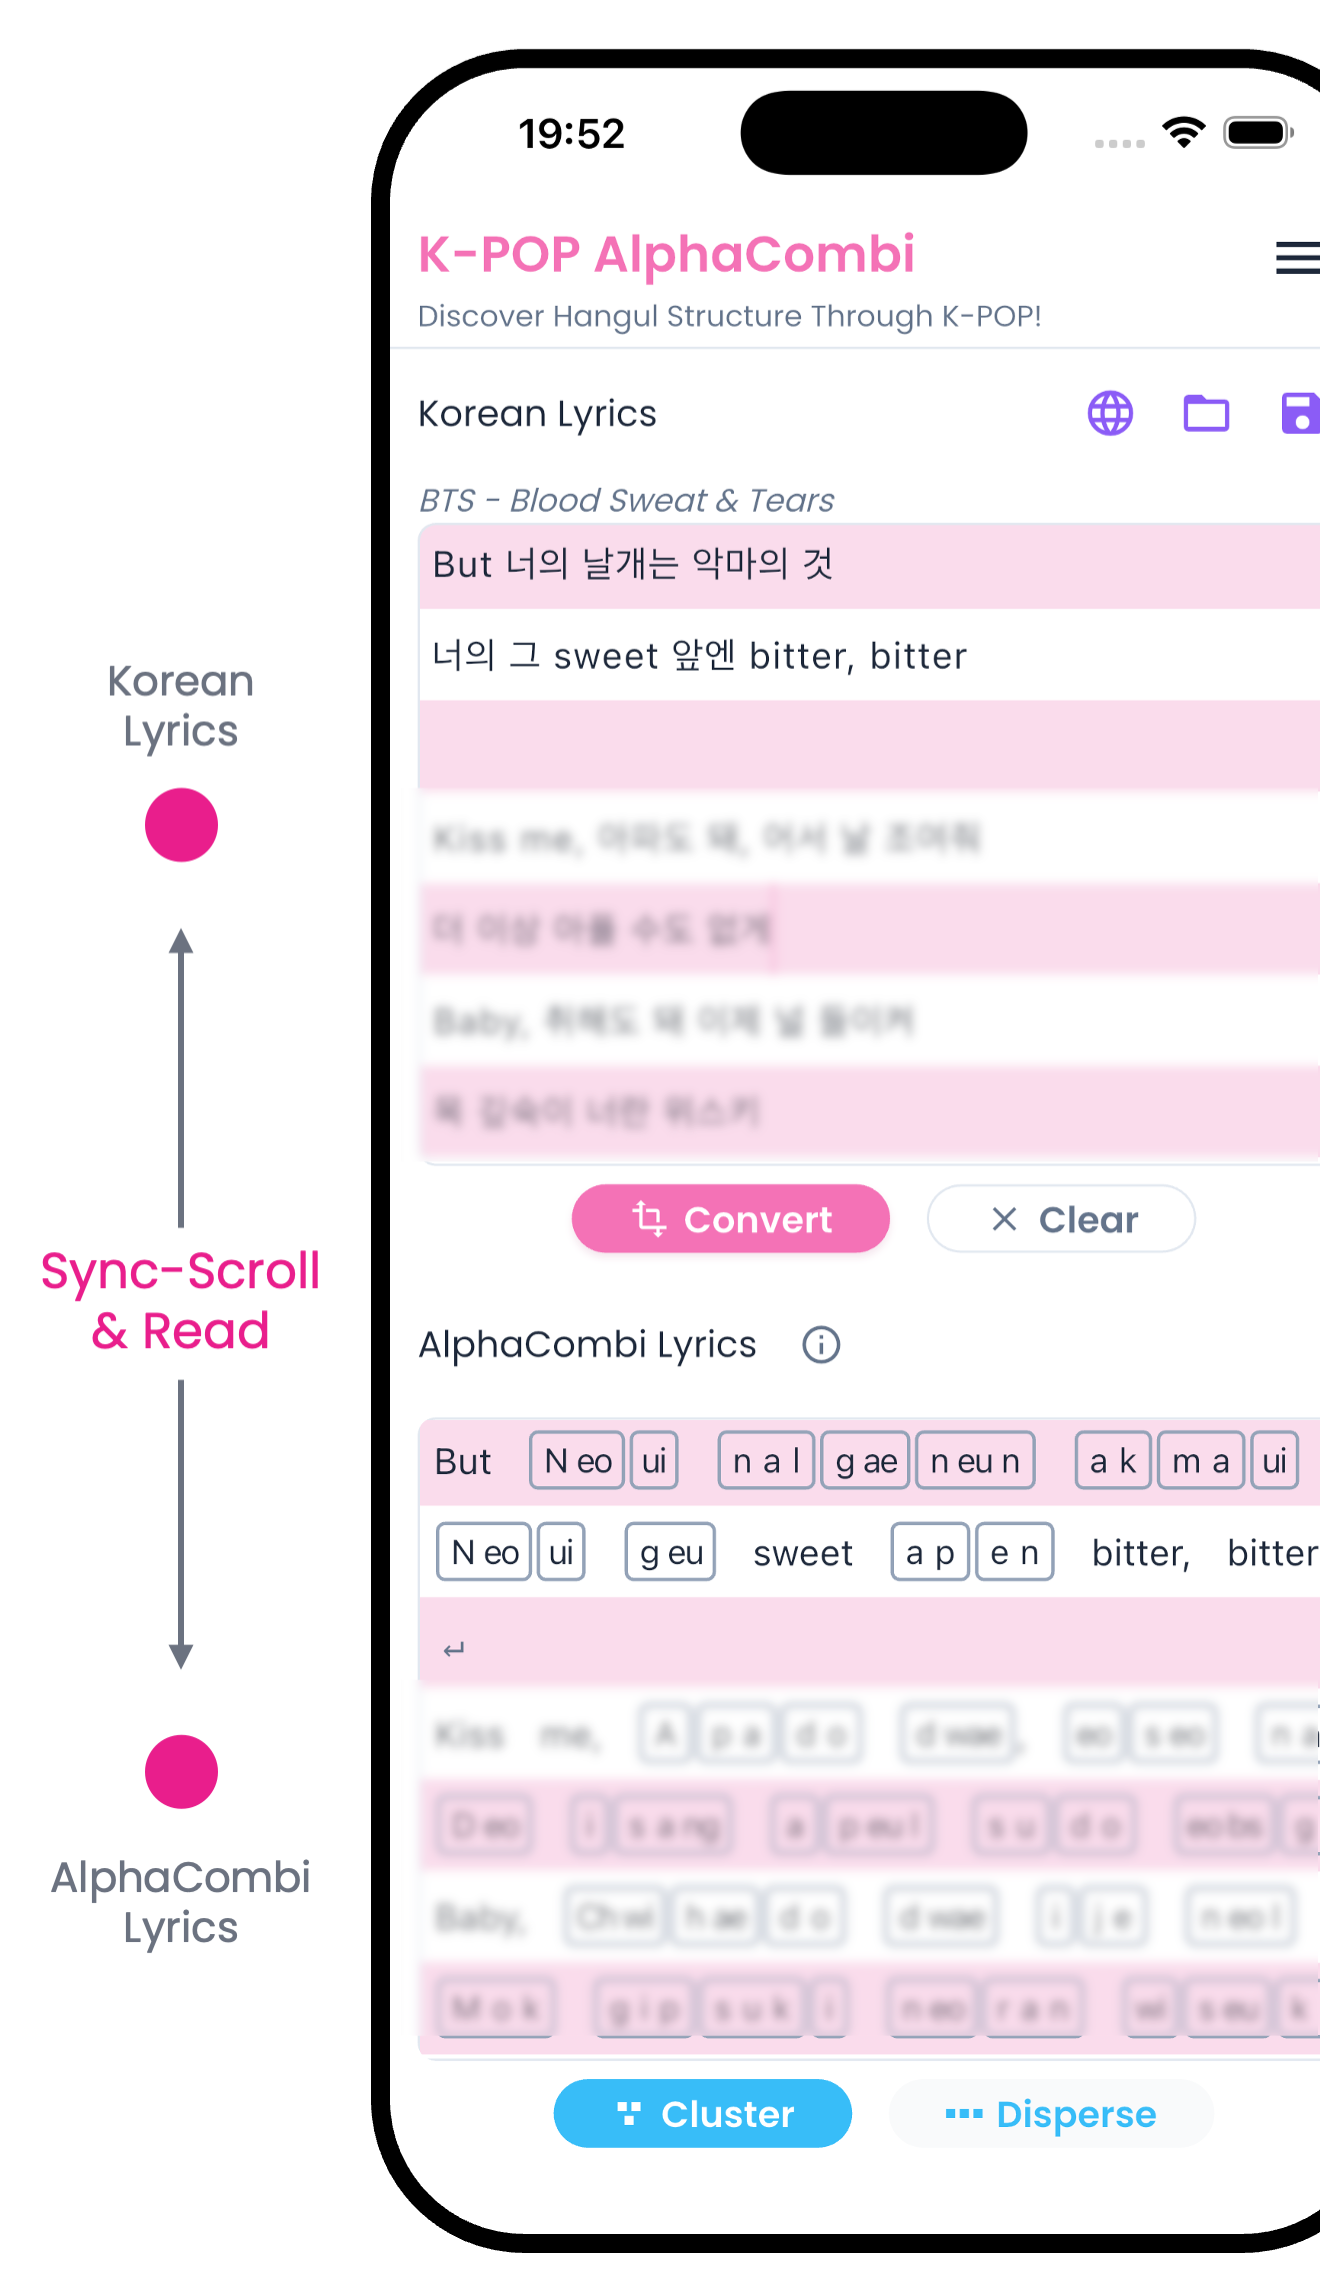
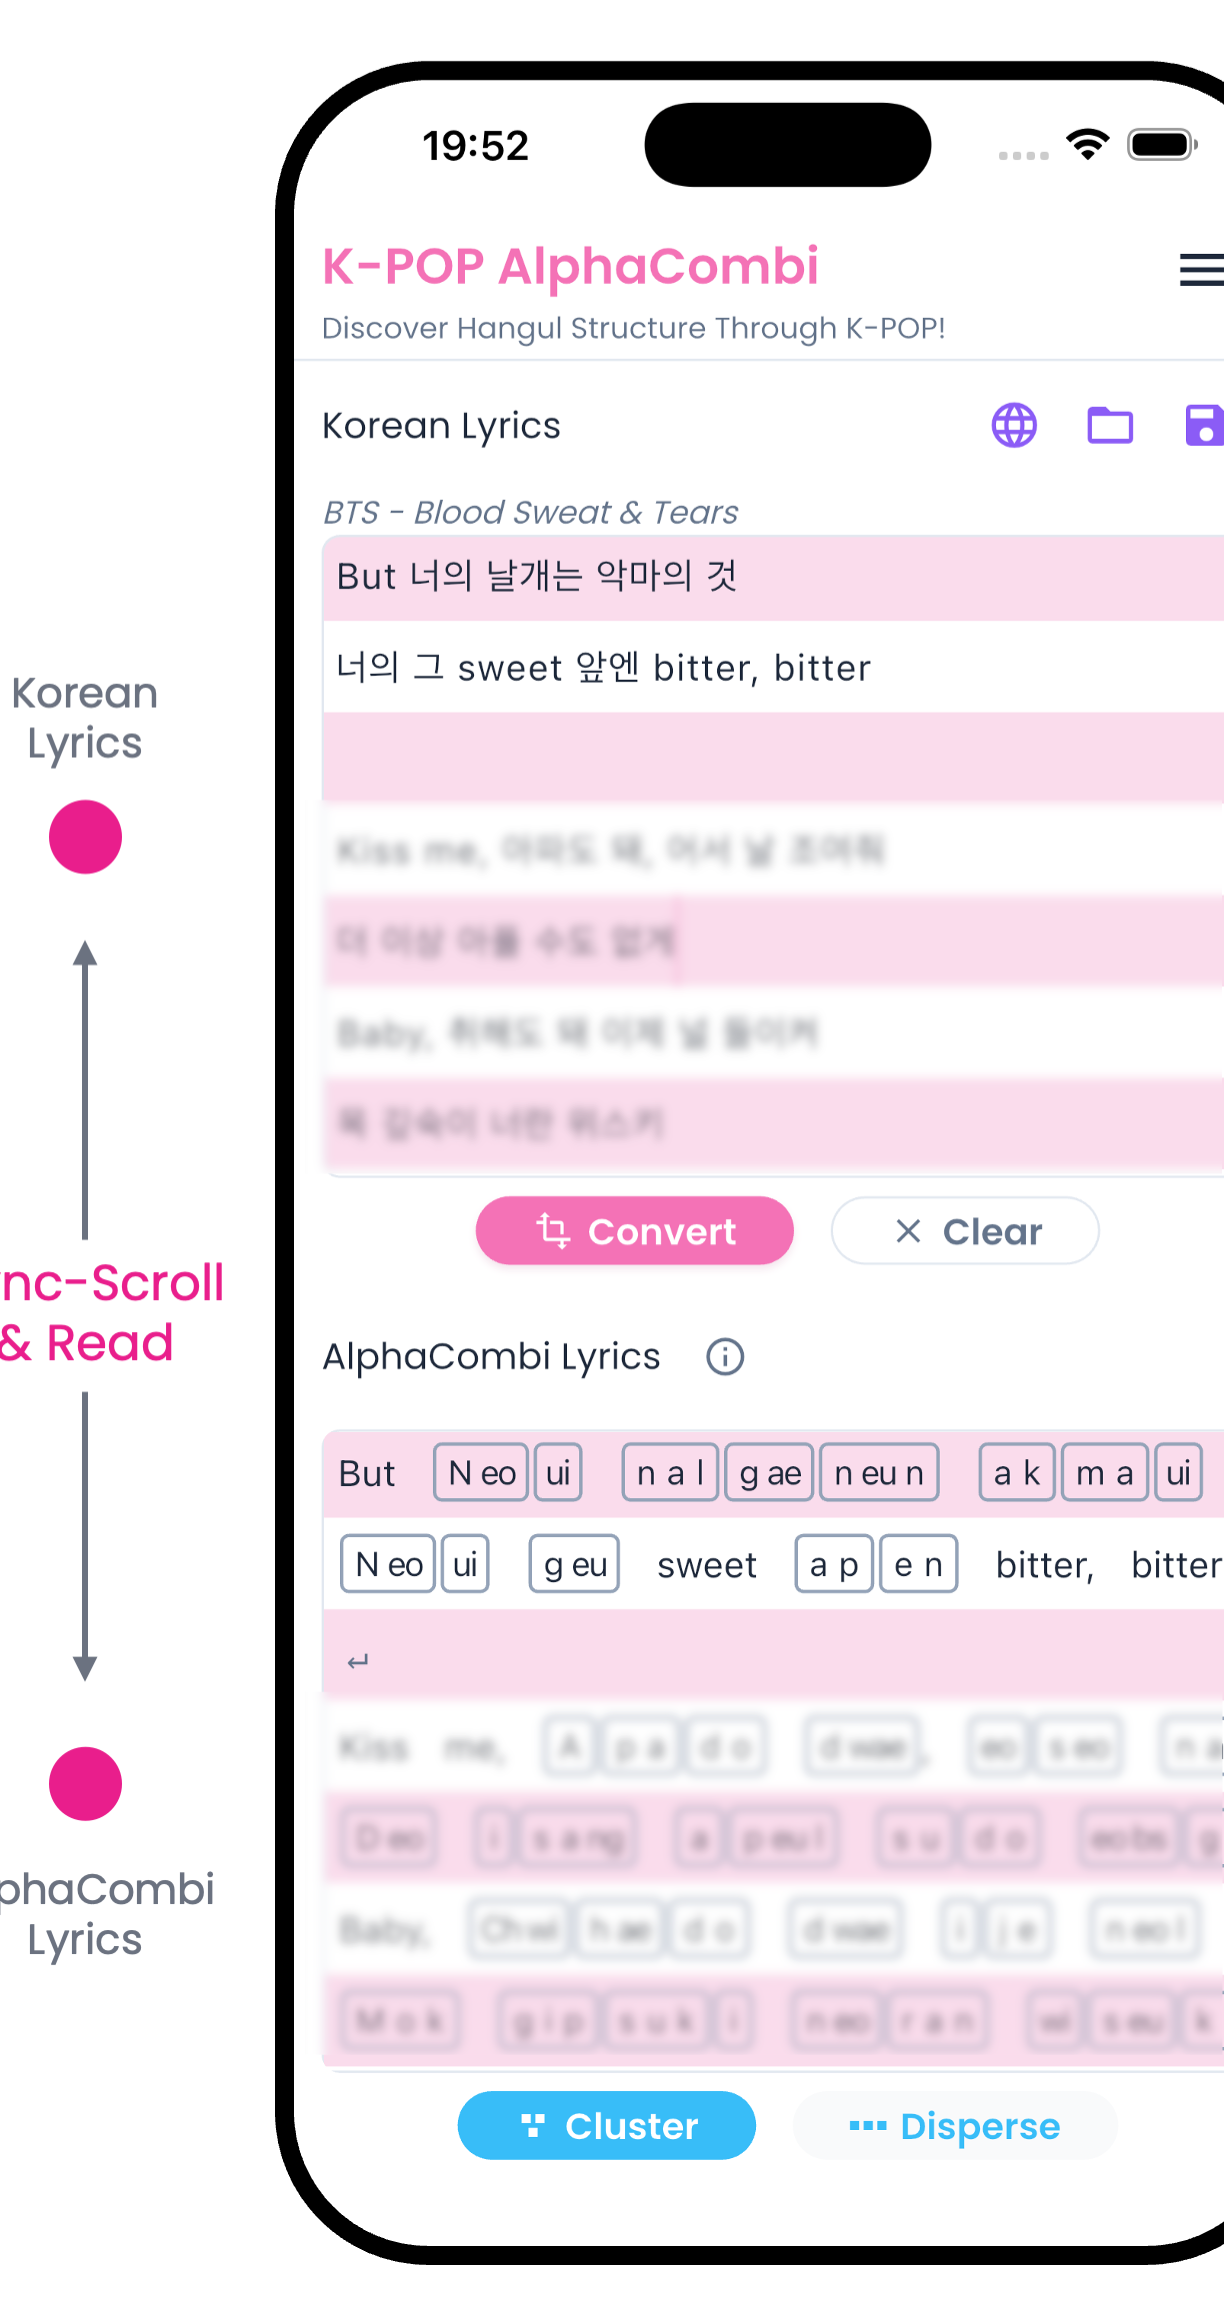
scroll 그림의 블러처리 수정

diff --git a/k-alphacombi/index.html b/k-alphacombi/index.html
@@ -74,7 +74,7 @@
                     <p>"50,000 fans are chanting<br>and I'm just moving my lips."</p>
                 </div>
             </div>
-            <p class="pain-solution">AlphaCombi gives you readable lyrics in <strong>seconds.</strong><br><span
+            <p class="pain-solution">K-POP AlphaCombi gives you readable lyrics in <strong>seconds.</strong><br><span
                     class="pain-solution-sub">The rest is up to you — practice a few times and you're set.</span></p>
         </div>
     </section>
